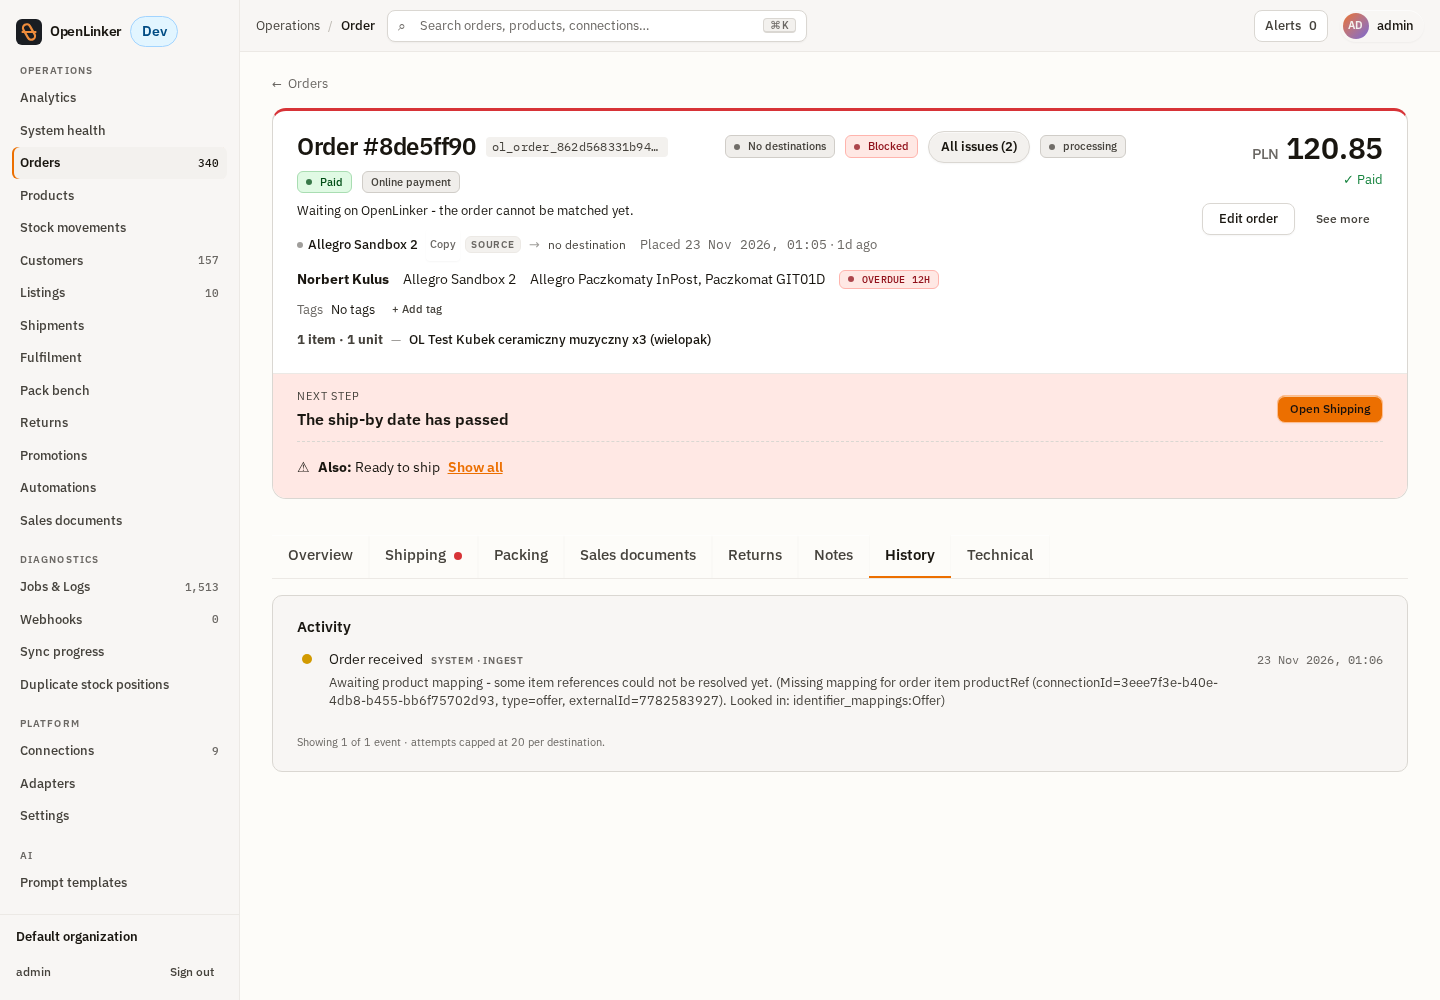
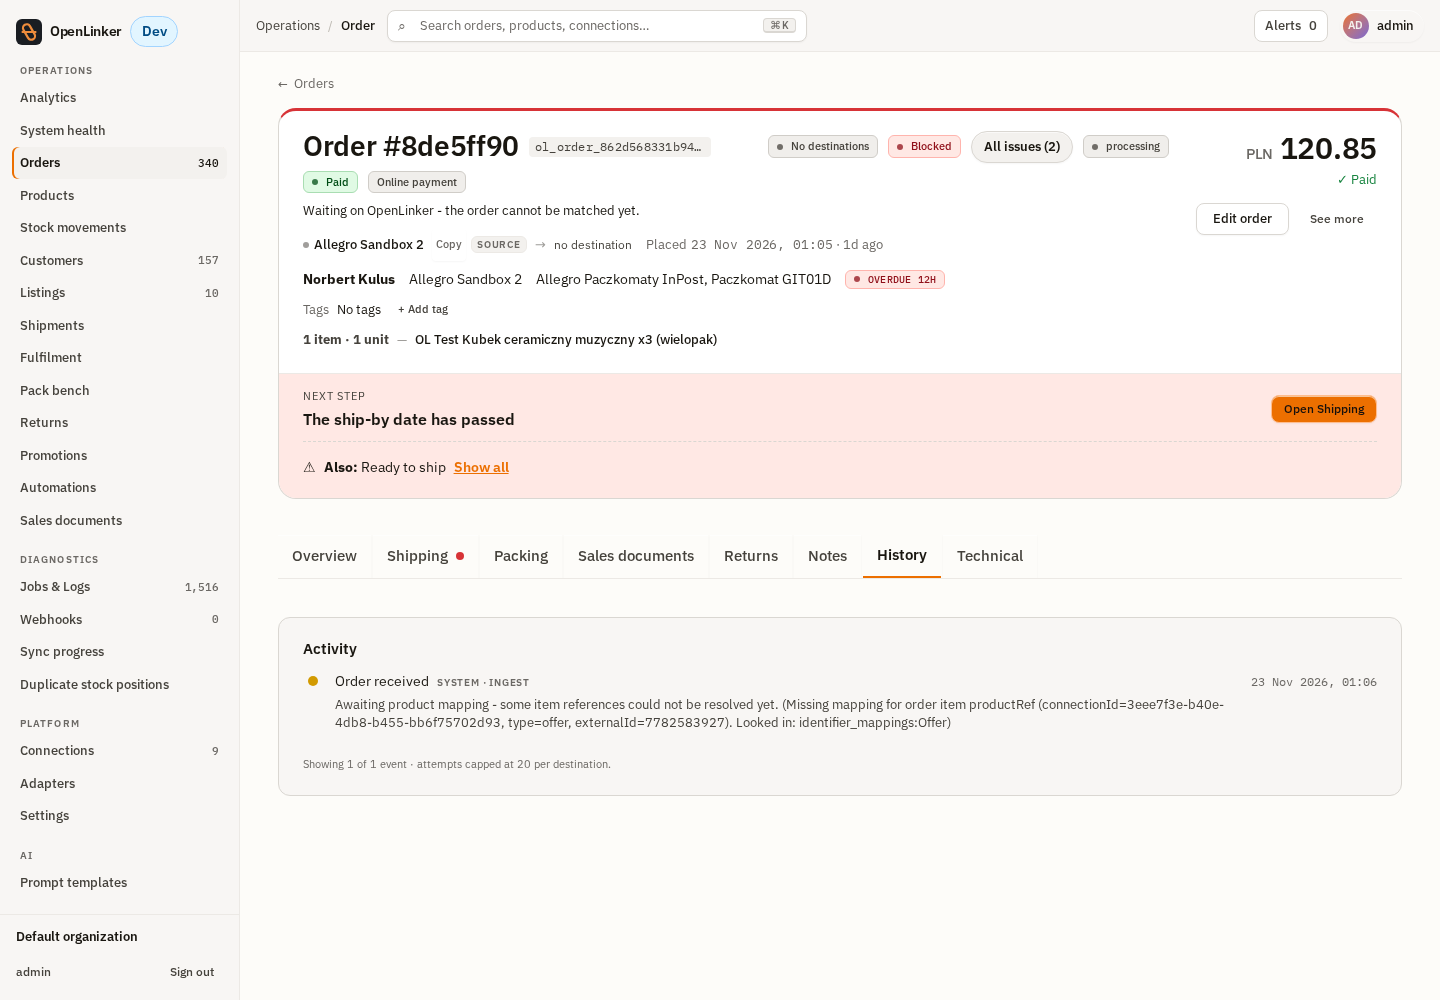
style(orders): match the mockup's measured geometry on the order detail page
Content column 1124 px, header radius 18, title 28/600, tabs 44 px with 10/14 padding and a 2 px gap, panel top padding 22 and gap 28, cards radius 12 with 20/24/22 padding. Numbers measured on docs/plans/mockups/order-detail-v3.html at 1440 px.

Refs #4286

Claude-Session: https://claude.ai/code/session_01JMBervaMXdCE2di1EPZfgm

diff --git a/apps/web/src/index.css b/apps/web/src/index.css
@@ -40424,3 +40424,19 @@ tr:hover .pm-move,tr:focus-within .pm-move{opacity:1}
   .order-detail__tab-list { -webkit-mask-image: linear-gradient(to right, #000 85%, transparent); mask-image: linear-gradient(to right, #000 85%, transparent); }
 }
 @media (max-width: 960px) { .order-detail__overview-grid { grid-template-columns: minmax(0, 1fr); } }
+
+/* ── Order detail: geometry taken from the approved mockup (#4286) ───────
+   Measured on docs/plans/mockups/order-detail-v3.html at 1440 px: content column
+   1124 px, header radius 18, title 28/600, tabs 44 px tall with 10/14 padding and
+   a 2 px gap, panel top padding 22 and gap 28, cards radius 12 with 20/24/22 padding. */
+.page-layout:has(.order-header--card) { max-width: 1124px; margin-inline: auto; }
+.order-header--card { border-radius: 18px; }
+.order-header__title { font-size: 1.75rem; font-weight: 600; line-height: 1.1; }
+.order-detail__tab-list { gap: 2px; }
+.order-detail__tab-list .tabs__trigger { padding: 10px 14px; font-size: 0.90625rem; font-weight: 500; min-height: 44px; }
+.order-detail__tab[data-state='active'] { gap: 28px; padding-top: 22px; }
+.order-detail__tab > *:not(:empty):not(.order-detail__parse-warning-row),
+.order-detail__overview-main > *:not(:empty), .order-detail__overview-side > *:not(:empty) { border-radius: 12px; padding: 20px 24px 22px; }
+.order-detail__overview-main, .order-detail__overview-side { gap: 28px; }
+.order-detail__overview-grid { gap: 28px; }
+@media (max-width: 760px) { .order-header__title { font-size: 1.375rem; } }
